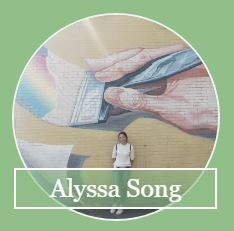
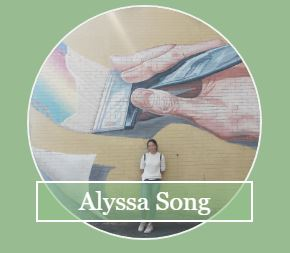
update profile picture

diff --git a/css/style.css b/css/style.css
@@ -134,18 +134,18 @@ a {
 }
 
 #profile-img {
-    max-width: 75%;
-    /*<span class="overlay">Alyssa Song</span>
-    border-radius: 50%;
+    max-width: 85%;
+    /*border-radius: 50%;
     border: 2px solid #f1f1f1;*/
 }
 
 /*.overlay {
+    <span class="overlay">Alyssa Song</span>
     position: fixed;
     display: block;
-    padding: 0px 2vw;
-    top: 180px;
-    left: 50px;
+    padding: 0px 3vw;
+    top: 210px;
+    left: 62px;
     background-color: #91be8996;
     border: 2px solid;
     border-color: white;
